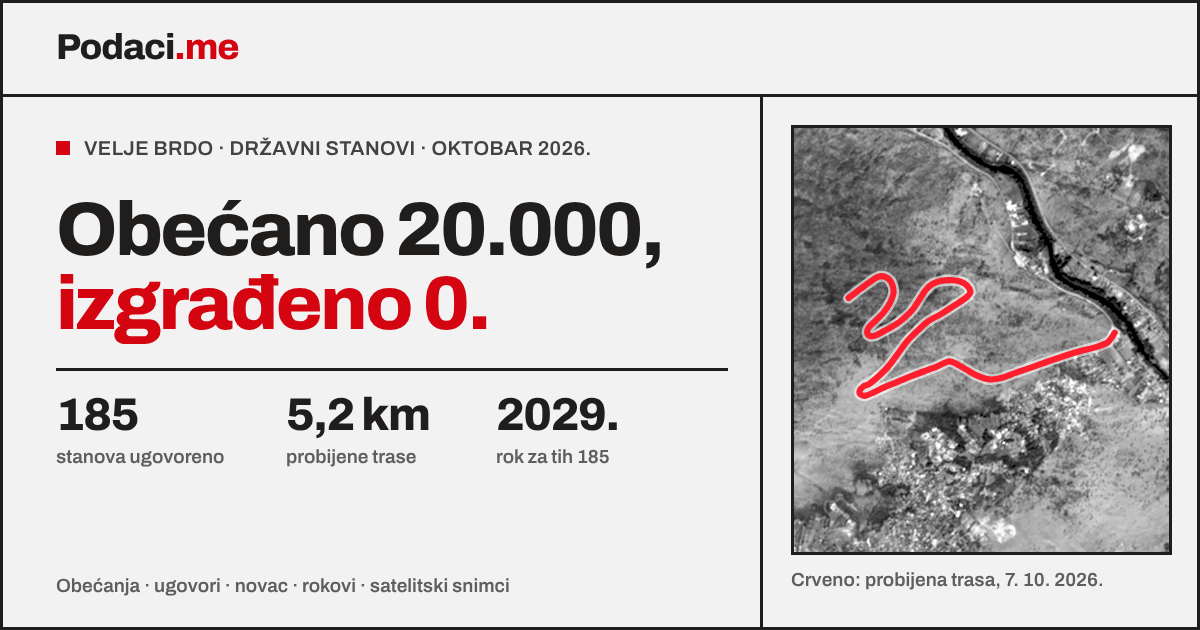
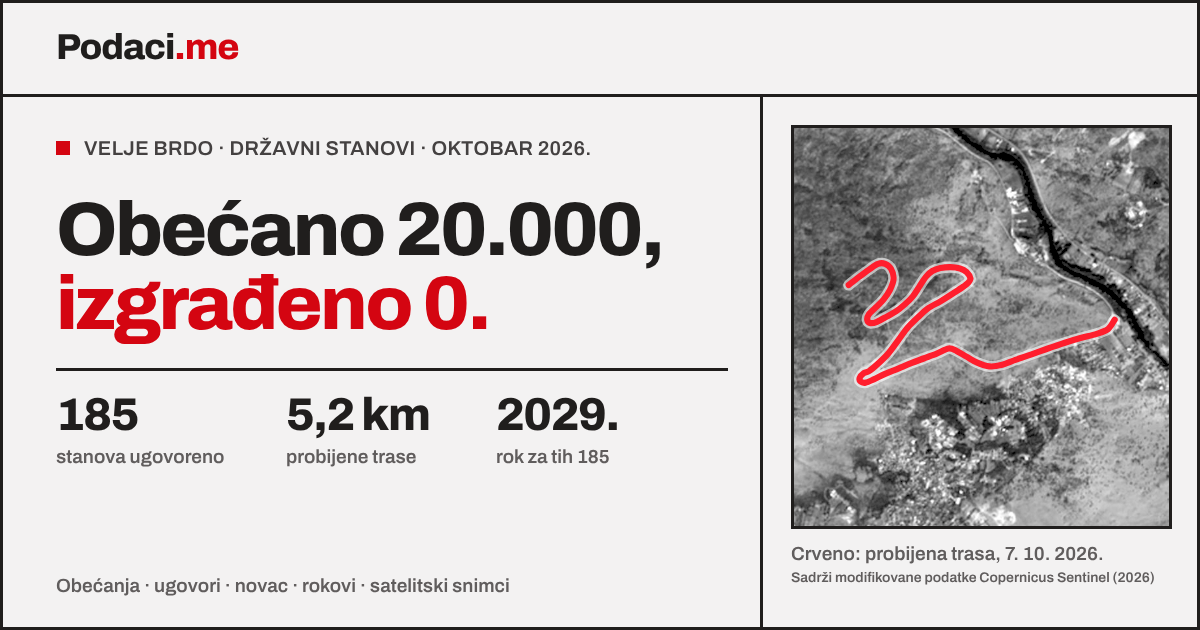
Velje brdo: ispravke posle uredničkog i tehničkog pregleda
- izvori uz tvrdnje iz samo jednog izvora; naše računice označene kao naše
- potpunija napomena o sukobu interesa; kritike izdavača označene u kalendaru i mreži
- odgovor ministarstva uz tvrdnju URA o namještenom konkursu; 'provjere' umjesto 'istrage'
- Copernicus napomena na kartici na početnoj i na slici za dijeljenje
- brojač dana kašnjenja vezan za datum stanja (20. 10. 2026.)
- skok iz indeksa ne završava ispod trake; nagovještaj za široke grafikone na telefonu
- početna: nelomljivi razmaci u brojkama, unutrašnji razmak kartica na telefonu

Claude-Session: https://claude.ai/code/session_01N93xnJPFmRj9Wvvp4fzWEd

Changed region(s): [[0.6475, 0.181, 0.9867, 0.9349]]

diff --git a/analize/velje-brdo/index.html b/analize/velje-brdo/index.html
@@ -95,7 +95,7 @@ button{font-family:inherit}
 .hero .copy{padding:72px 48px 56px 0;min-width:0}
 .eyebrow{display:flex;align-items:center;gap:10px;margin:0 0 26px;font-size:12px;font-weight:700;letter-spacing:.14em;text-transform:uppercase;color:var(--muted)}
 .eyebrow i{width:9px;height:9px;background:var(--accent);animation:blink 1.6s infinite;flex:none}
-h1{margin:0;font-size:clamp(40px,6vw,86px);font-weight:800;letter-spacing:-.035em;line-height:.96;text-wrap:balance}
+h1{margin:0;font-size:clamp(40px,6vw,78px);font-weight:800;letter-spacing:-.035em;line-height:.96;text-wrap:balance}
 h1 .ln{display:block}
 h1 .red{color:var(--accent);position:relative;isolation:isolate}
 h1 .num{font-variant-numeric:tabular-nums;display:inline-block;min-width:1ch}
@@ -204,6 +204,8 @@ main{display:flex;flex-direction:column;gap:28px;padding-block:32px 24px}
 .stage [data-tip]{cursor:crosshair}
 .scroll-x{overflow-x:auto}
 @media (max-width:640px){#price,#slip{min-width:640px}#money,#subsidy,#pace{min-width:460px}}
+.swipe{display:none;font-family:var(--f-mono);font-size:11px;color:var(--muted);margin:0 0 6px}
+@media (max-width:640px){.swipe{display:block}}
 
 /* tooltip */
 #tip{position:fixed;z-index:60;pointer-events:none;background:var(--tip-bg);color:var(--tip-ink);padding:8px 11px;font:600 12.5px/1.35 var(--f-ui);max-width:280px;opacity:0;transform:translateY(6px);transition:opacity .15s,transform .2s var(--ease-out)}
@@ -229,6 +231,7 @@ main{display:flex;flex-direction:column;gap:28px;padding-block:32px 24px}
 .story .st .bar i{display:block;height:100%;width:100%;background:var(--ink);transform:scaleX(0);transform-origin:left}
 .story .st.hit .bar i{background:var(--accent)}
 .story .st .lab{font-family:var(--f-mono);font-size:12px;font-weight:500;white-space:nowrap;overflow:hidden;text-overflow:ellipsis}
+@media (max-width:520px){.story .st .lab{white-space:normal;font-size:11px;line-height:1.25}}
 .story .st[aria-current="true"] .lab{color:var(--ink)}
 .story .st.hit[aria-current="true"] .lab{color:var(--accent)}
 .playbtn{font:700 13px/1 var(--f-ui);color:var(--on-accent);background:var(--accent);border:0;width:40px;height:40px;cursor:pointer;display:inline-grid;place-items:center;margin-top:-14px}
@@ -419,6 +422,7 @@ footer .sitefoot a{color:var(--muted)}
   @media (prefers-reduced-motion: no-preference){
     @keyframes plateIn{from{opacity:.35;transform:translateY(44px) scale(.985)}to{opacity:1;transform:none}}
     main > .plate{animation:plateIn linear both;animation-timeline:view();animation-range:entry 0% entry 55%}
+    main > .plate:target{animation:none}
   }
 }
 @media (prefers-reduced-motion: no-preference){
@@ -595,7 +599,7 @@ footer .sitefoot a{color:var(--muted)}
       <button class="replay" type="button" data-replay="profil"><svg viewBox="0 0 16 16" aria-hidden="true"><path d="M3 8a5 5 0 1 0 1.5-3.6M3 2.5v2.8h2.8" fill="none" stroke="currentColor" stroke-width="2"/></svg><span>Ponovi</span></button>
     </div>
     <div class="radar-wrap">
-      <div class="stage"><svg id="radar" viewBox="0 0 640 560" role="img" aria-label="Paukov dijagram ostvarenja: ugovori za prvu fazu 100%, probijena trasa 98%, a stanovi, rokovi, dokumenti, dozvole i preduslovi blizu nule."></svg></div>
+      <div class="stage"><svg id="radar" viewBox="0 0 640 560" role="img" aria-label="Paukov dijagram ostvarenja: ugovori za prvu fazu 100%, probijena trasa 97%, a stanovi, rokovi, dokumenti, dozvole i preduslovi blizu nule."></svg></div>
       <table class="rtab" id="rtab"><thead><tr><th>Osa</th><th style="text-align:right">Ostvareno</th></tr></thead><tbody></tbody></table>
     </div>
   </section>
@@ -604,7 +608,7 @@ footer .sitefoot a{color:var(--muted)}
     <div class="plate-head">
       <p class="kicker"><span class="no">04</span>Razmjera</p>
       <h2 id="h3r">Ugovoreno je 0,9% obećanog. Tempom prve faze, 20.000 stanova gradilo bi se 324 godine.</h2>
-      <p class="sub">Svaki kvadratić je 100 stanova. Proračun tempa je ilustracija razmjera, ne prognoza: 108 faza po 185 stanova i 36 mjeseci, jedna za drugom.</p>
+      <p class="sub">Svaki kvadratić je 100 stanova. Naš proračun tempa je ilustracija razmjera, ne prognoza: oko 108 faza po 185 stanova i 36 mjeseci, jedna za drugom.</p>
       <button class="replay" type="button" data-replay="razmjera"><svg viewBox="0 0 16 16" aria-hidden="true"><path d="M3 8a5 5 0 1 0 1.5-3.6M3 2.5v2.8h2.8" fill="none" stroke="currentColor" stroke-width="2"/></svg><span>Ponovi</span></button>
     </div>
     <div class="bigcount">
@@ -623,7 +627,7 @@ footer .sitefoot a{color:var(--muted)}
       <div class="panel">
         <h3>Koliko bi trajalo tempom prve faze</h3>
         <p class="h3sub">Prva faza: 185 stanova za 36 mjeseci. Radunović: „radiće i deset vlada poslije nas“.</p>
-        <div class="stage scroll-x"><svg id="pace" viewBox="0 0 560 250" role="img" aria-label="Tempom prve faze, 20.000 stanova bilo bi završeno oko 2350. godine."></svg></div>
+        <p class="swipe" aria-hidden="true">Grafikon je širi od ekrana, povucite ga ulijevo →</p><div class="stage scroll-x"><svg id="pace" viewBox="0 0 560 250" role="img" aria-label="Tempom prve faze, 20.000 stanova bilo bi završeno oko 2350. godine."></svg></div>
       </div>
     </div>
   </section>
@@ -635,7 +639,7 @@ footer .sitefoot a{color:var(--muted)}
       <p class="sub">Ministarka javnih radova Majda Adžović kaže da trošak iznosi 1.067 € i da razliku pokriva budžet. Računica od 2.808 € dijeli vrijednost ugovora neto površinom stanova (Investitor); <strong>ministarstvo je osporava</strong>.</p>
       <button class="replay" type="button" data-replay="cijena"><svg viewBox="0 0 16 16" aria-hidden="true"><path d="M3 8a5 5 0 1 0 1.5-3.6M3 2.5v2.8h2.8" fill="none" stroke="currentColor" stroke-width="2"/></svg><span>Ponovi</span></button>
     </div>
-    <div class="stage scroll-x"><svg id="price" viewBox="0 0 960 400" role="img" aria-label="Linijski grafikon: prosječna cijena novogradnje u Podgorici porasla je sa 1.761 € na 2.510 € po kvadratu; obećana cijena 1.000 €, računica iz ugovora 2.808 €."></svg></div>
+    <p class="swipe" aria-hidden="true">Grafikon je širi od ekrana, povucite ga ulijevo →</p><div class="stage scroll-x"><svg id="price" viewBox="0 0 960 400" role="img" aria-label="Linijski grafikon: prosječna cijena novogradnje u Podgorici porasla je sa 1.761 € na 2.510 € po kvadratu; obećana cijena 1.000 €, računica iz ugovora 2.808 €."></svg></div>
     <p class="cap">Linija: prosječna cijena prvih prodaja novih stanova u Podgorici (MONSTAT), €/m². Šuplje tačke: vrijednosti iz medijskih izvještaja o podacima MONSTAT-a. Ugovor: 40.049.774 € bez PDV-a za 14.260 m² neto stambene površine; uključuje glavni projekat, garaže i uređenje terena, a ne zemljište, priključke i PDV. Pređite mišem preko tačaka za vrijednosti.</p>
   </section>
 
@@ -643,22 +647,22 @@ footer .sitefoot a{color:var(--muted)}
     <div class="plate-head">
       <p class="kicker"><span class="no">06</span>Novac</p>
       <h2 id="h5n">Po cijeni iz ugovora, 20.000 stanova koštalo bi oko 4,3 mlrd. €, više od cijelog državnog budžeta za 2026.</h2>
-      <p class="sub">Projekcija množi cijenu jednog stana iz ugovora (216.485 € bez PDV-a) sa 20.000. Ne uključuje zemljište, infrastrukturu ni PDV. Vlada svoju procjenu ukupne vrijednosti nije objavila.</p>
+      <p class="sub">Naša projekcija množi cijenu jednog stana iz ugovora (216.485 € bez PDV-a) sa 20.000. Ne uključuje zemljište, infrastrukturu ni PDV. Vlada svoju procjenu ukupne vrijednosti nije objavila.</p>
       <button class="replay" type="button" data-replay="novac"><svg viewBox="0 0 16 16" aria-hidden="true"><path d="M3 8a5 5 0 1 0 1.5-3.6M3 2.5v2.8h2.8" fill="none" stroke="currentColor" stroke-width="2"/></svg><span>Ponovi</span></button>
     </div>
     <div class="two">
       <div class="panel">
         <h3>Projekcija naspram budžeta i stvarnog novca</h3>
         <p class="h3sub">Milioni eura, ista skala. Isprekidana linija: cijeli budžet za 2026.</p>
-        <div class="stage scroll-x"><svg id="money" viewBox="0 0 560 280" role="img" aria-label="Projekcija 4.330 miliona eura, državni budžet za 2026. 3.790 miliona, ugovoreno do sada 72,7 miliona, u budžetima 2025. i 2026. po 10 miliona."></svg></div>
+        <p class="swipe" aria-hidden="true">Grafikon je širi od ekrana, povucite ga ulijevo →</p><div class="stage scroll-x"><svg id="money" viewBox="0 0 560 280" role="img" aria-label="Projekcija 4.330 miliona eura, državni budžet za 2026. 3.790 miliona, ugovoreno do sada 72,7 miliona, u prijedlogu budžeta 2025. i u budžetu 2026. po 10 miliona."></svg></div>
       </div>
       <div class="panel">
         <h3>Koliko država dodaje po stanu</h3>
-        <p class="h3sub">Prosječan stan u prvoj fazi ima 77 m² i prodaje se za oko 77.000 €.</p>
-        <div class="stage scroll-x"><svg id="subsidy" viewBox="0 0 560 280" role="img" aria-label="Po ministarki država dodaje oko 5.200 eura po stanu; po računici iz ugovora oko 139.400 eura."></svg></div>
+        <p class="h3sub">Prosječan stan u prvoj fazi ima 77 m²; po obećanih 1.000 €/m² prodavao bi se za oko 77.000 €.</p>
+        <p class="swipe" aria-hidden="true">Grafikon je širi od ekrana, povucite ga ulijevo →</p><div class="stage scroll-x"><svg id="subsidy" viewBox="0 0 560 280" role="img" aria-label="Po ministarki država dodaje oko 5.200 eura po stanu; po računici iz ugovora oko 139.400 eura."></svg></div>
       </div>
     </div>
-    <p class="cap">Izvori: ugovor sa konzorcijumom Fidija i Ing Invest (Investitor, Sjever CG); budžet 2026. od 3,79 mlrd. € (Vlada); 10 mil. € u budžetima 2025. i 2026. (Press, Vodič kroz budžet Skupštine); izjava ministarke Adžović (Analitika). Proračuni po stanu su naši.</p>
+    <p class="cap">Izvori: ugovor sa konzorcijumom Fidija i Ing Invest (Investitor, Sjever CG); budžet 2026. od 3,79 mlrd. € (Vlada); 10 mil. € u prijedlogu budžeta 2025. i u budžetu 2026. (Press, Vodič kroz budžet Skupštine); izjava ministarke Adžović (Analitika). Projekcija i proračuni po stanu su naši.</p>
   </section>
 
   <section class="plate" id="rokovi" data-anim="rokovi" aria-labelledby="h6r">
@@ -668,18 +672,18 @@ footer .sitefoot a{color:var(--muted)}
       <p class="sub">Od obećanog useljenja sredinom 2026. prošlo je <strong id="lateDays">112</strong> dana.</p>
       <button class="replay" type="button" data-replay="rokovi"><svg viewBox="0 0 16 16" aria-hidden="true"><path d="M3 8a5 5 0 1 0 1.5-3.6M3 2.5v2.8h2.8" fill="none" stroke="currentColor" stroke-width="2"/></svg><span>Ponovi</span></button>
     </div>
-    <div class="stage scroll-x"><svg id="slip" viewBox="0 0 960 380" role="img" aria-label="Obećani rok za prve stanove: sredina 2026, pa kraj 2026, pa kraj 2027; rok iz ugovora za 185 stanova je 21. 8. 2029."></svg></div>
+    <p class="swipe" aria-hidden="true">Grafikon je širi od ekrana, povucite ga ulijevo →</p><div class="stage scroll-x"><svg id="slip" viewBox="0 0 960 380" role="img" aria-label="Obećani rok za prve stanove: sredina 2026, pa kraj 2026, pa kraj 2027; rok iz ugovora za 185 stanova je 21. 8. 2029."></svg></div>
     <p class="cap">Vodoravno: kada je rok izgovoren. Uspravno: koji je rok obećan. Šuplji krug je rok koji je već prošao. Izvori: CdM (21. 9. 2024), Vlada (27. 12. 2024), RTPV (22. 3. 2026), ugovor (21. 8. 2026).</p>
   </section>
 
   <section class="plate" id="kalendar" data-anim="kalendar" aria-labelledby="h8k">
     <div class="plate-head">
       <p class="kicker"><span class="no">08</span>Kalendar projekta</p>
-      <h2 id="h8k">26 mjeseci, 55 događaja: ugovori, kritike i istrage. Red za gradnju stanova je prazan.</h2>
+      <h2 id="h8k">26 mjeseci, 55 događaja: ugovori, kritike i provjere. Red za gradnju stanova je prazan.</h2>
       <p class="sub">Toplotna mapa broji događaje iz naše hronologije po mjesecu i temi. Tamnija ćelija znači više događaja. Pređite mišem preko ćelije za spisak.</p>
       <button class="replay" type="button" data-replay="kalendar"><svg viewBox="0 0 16 16" aria-hidden="true"><path d="M3 8a5 5 0 1 0 1.5-3.6M3 2.5v2.8h2.8" fill="none" stroke="currentColor" stroke-width="2"/></svg><span>Ponovi</span></button>
     </div>
-    <div class="stage scroll-x"><svg id="cal" viewBox="0 0 1000 400" role="img" aria-label="Toplotna mapa događaja po mjesecima od septembra 2024. do oktobra 2026. i po temama; red Gradnja stanova nema nijedan događaj."></svg></div>
+    <p class="swipe" aria-hidden="true">Grafikon je širi od ekrana, povucite ga ulijevo →</p><div class="stage scroll-x"><svg id="cal" viewBox="0 0 1000 400" role="img" aria-label="Toplotna mapa događaja po mjesecima od septembra 2024. do oktobra 2026. i po temama; red Gradnja stanova nema nijedan događaj."></svg></div>
     <div class="cal-legend"><span><i style="background:#f1efef"></i>0</span><span><i style="background:#f7c4c7"></i>1</span><span><i style="background:#ee7d86"></i>2</span><span><i style="background:#d40511"></i>3</span><span><i style="background:#7d020a"></i>4 i više događaja</span></div>
     <p class="cap">Broj događaja iz hronologije ovog istraživanja, ne mjera ukupne medijske pažnje. Gdje tačan datum nije potvrđen, mjesec je približan.</p>
   </section>
@@ -715,7 +719,7 @@ footer .sitefoot a{color:var(--muted)}
       <button type="button" data-type="kritika" aria-pressed="true"><span class="ln" style="border-color:#c27c00;border-top-style:dotted"></span>Kritika i mediji</button>
       <span style="display:inline-flex;align-items:center;gap:12px;font-size:12.5px;color:var(--ink-2);margin-left:6px"><span><span class="dot" style="background:var(--ink)"></span> vlast</span><span><span class="dot" style="background:var(--accent)"></span> izvođači</span><span><span class="dot" style="background:#2a78d6"></span> institucije</span><span><span class="dot" style="background:#c27c00"></span> kritičari, mediji</span></span>
     </div>
-    <div class="net-wrap"><svg id="net" viewBox="0 0 1000 660" role="img" aria-label="Mreža aktera projekta Velje brdo; spisak veza nalazi se ispod mreže."></svg><span class="net-hint">povucite čvor</span></div>
+    <p class="swipe" aria-hidden="true">Grafikon je širi od ekrana, povucite ga ulijevo →</p><div class="net-wrap"><svg id="net" viewBox="0 0 1000 660" role="img" aria-label="Mreža aktera projekta Velje brdo; spisak veza nalazi se ispod mreže."></svg><span class="net-hint">povucite čvor</span></div>
     <details class="net-list"><summary>Spisak svih veza</summary><ul id="netList"></ul></details>
   </section>
 
@@ -737,7 +741,7 @@ footer .sitefoot a{color:var(--muted)}
       <figure class="qt"><span class="side crit">Struka</span><blockquote>„Velje brdo se može samo u snovima zamisliti.“</blockquote><cite>Radenko Pejović, penzionisani profesor Građevinskog fakulteta, Monitor, 8. 5. 2026.</cite></figure>
       <figure class="qt"><span class="side crit">Opozicija</span><blockquote>„Rokovi za Velje brdo ponovo se pomjeraju.“</blockquote><cite>Ana Novaković Đurović, URA, 19. 10. 2026.</cite></figure>
       <figure class="qt"><span class="side crit">Civilni sektor</span><blockquote>„Nema zakona niti odluke Vlade koji bi formalno garantovali realizaciju prema prvobitnim najavama.“</blockquote><cite>Udruženje podstanara Crne Gore</cite></figure>
-      <figure class="qt"><span class="side crit">Civilni sektor</span><blockquote>„Velje Brdo je obmana – 3,5 milijardi za iluziju bez pokrića.“</blockquote><cite>Sonja Dragović, NVO KANA, april 2026. Ministarstvo kaže da je konkurs sproveden zakonito.</cite></figure>
+      <figure class="qt"><span class="side crit">Civilni sektor</span><blockquote>„Velje Brdo je obmana – 3,5 milijardi za iluziju bez pokrića.“</blockquote><cite>Sonja Dragović, NVO KANA, april 2026. KANA navodi i sukob interesa u žiriju konkursa; ministarstvo kaže da je konkurs sproveden zakonito i bez sukoba interesa.</cite></figure>
     </div>
   </section>
 
@@ -765,8 +769,8 @@ footer .sitefoot a{color:var(--muted)}
     <div class="plate-head">
       <p class="kicker"><span class="no">13</span>Izvori</p>
       <h2 id="h10i">Dokumenti i tekstovi na kojima se stranica zasniva</h2>
-      <p class="sub">Glavni izvori su navedeni ispod. Tvrdnje koje potiču iz samo jednog izvora navedene su uz ime tog izvora. Naše računice, kao projekcija troška i tempo gradnje, označene su kao naše.</p>
-      <p class="sub disclose">Napomena: Podaci.me izdaje Fidelity Consulting, koji je o ovom projektu i ranije javno objavljivao kritike. Te kritike su u analizi prikazane kao i ostali izvori, u kalendaru i u mreži aktera.</p>
+      <p class="sub">Glavni izvori su navedeni ispod. Ključne tvrdnje koje potiču iz samo jednog izvora navedene su uz ime tog izvora. Naše računice, kao projekcija troška i tempo gradnje, označene su kao naše.</p>
+      <p class="sub disclose">Napomena o sukobu interesa: Podaci.me izdaje Fidelity Consulting d.o.o. Fidelity Consulting je od 2024. javno kritikovao ovaj projekat: tvrdio je da obećane rate ne odgovaraju cijeni od 1.000 €, da su premijer Spajić i ministar Radunović obmanuli građane i da je procijenjena vrijednost tendera za pripremne radove na bulevaru previsoka. U kalendaru i u mreži aktera te kritike su označene kao kritike izdavača.</p>
     </div>
     <ul class="srcs">
       <li><a href="https://www.cdm.me/ekonomija/spajic-na-predstavljanju-projekta-velje-brdo-prvi-stanovi-sredinom-2026-godine-kvadrat-ce-biti-1-000-eura-sa-kamatom-12-odsto/">CdM: predstavljanje projekta, 21. 9. 2024.</a></li>
@@ -865,7 +869,7 @@ footer .sitefoot a{color:var(--muted)}
   }
   var ROUTE_D = smooth(ROUTE);
   var FRAMES = [
-    { d: '2. 10. 2024.', note: 'Deset dana poslije predstavljanja projekta. Nema puteva.', route: false },
+    { d: '2. 10. 2024.', note: 'Jedanaest dana poslije predstavljanja projekta. Nema puteva.', route: false },
     { d: '14. 3. 2026.', note: 'Jedanaest dana prije otvaranja gradilišta bulevara. Nema novih radova.', route: false },
     { d: '29. 7. 2026.', note: 'Četiri mjeseca poslije početka pripremnih radova: trasa je probijena.', route: true },
     { d: '7. 10. 2026.', note: 'Posljednji snimak bez oblaka: ista trasa, nema novih iskopa.', route: true }
@@ -873,7 +877,7 @@ footer .sitefoot a{color:var(--muted)}
   var PROMISES = [
     { q: 'Prvi stanovi sredinom 2026.', who: 'Milojko Spajić, 21. 9. 2024.', s: 'no', st: 'Nije ispunjeno', fact: 'Rok je prošao. Ugovor za prvih <b>185 stanova</b> ističe <b>21. 8. 2029.</b>' },
     { q: 'Kvadrat 1.000 €', who: 'Milojko Spajić, 21. 9. 2024.', s: 'dispute', st: 'Sporno', fact: 'Po računici iz ugovora gradnja košta najmanje <b>2.808 €</b> po m²; ministarka Adžović kaže <b>1.067 €</b> i da razliku plaća budžet.' },
-    { q: 'Kamata 1,2%, 30 godina, bez učešća', who: 'Milojko Spajić, 21. 9. 2024.', s: 'wait', st: 'Bez potvrde', fact: 'Banka ili fond koji bi dao takvu kamatu <b>nije imenovan</b>. Obećane rate od 290 i 390 € ne odgovaraju cijeni od 1.000 €.' },
+    { q: 'Kamata 1,2%, 30 godina, bez učešća', who: 'Milojko Spajić, 21. 9. 2024.', s: 'wait', st: 'Bez potvrde', fact: 'Banka ili fond koji bi dao takvu kamatu <b>nije imenovan</b>. Naša računica: uz 1,2% na 30 godina stan od 60 m² po 1.000 €/m² daje ratu od oko <b>199 €</b>, a od 100 m² oko <b>331 €</b>. Obećane rate od 290 i 390 € odgovaraju cijeni od oko 1.460 i 1.180 € po m². Isto je 2024. iznio Fidelity Consulting, izdavač Podaci.me.' },
     { q: '20.000 stanova', who: 'Koordinaciono tijelo Vlade, decembar 2024.', s: 'dispute', st: 'Bez plana', fact: 'Ugovoreno je <b>185</b>, odnosno 0,9%. Plan finansiranja za ostatak nije objavljen.' },
     { q: 'PUP usvojen do 31. 12. 2024.', who: 'Vlada, 14. 12. 2024.', s: 'late', st: 'Kasnilo 227 dana', fact: 'Plan je usvojen <b>15. 8. 2025.</b> na telefonskoj sjednici.' },
     { q: 'Pravilnik o dodjeli u prvoj polovini 2026.', who: 'Ministarstvo, 2026.', s: 'no', st: 'Nije ispunjeno', fact: 'Postoji samo <b>nacrt</b>; usvojen pravilnik nismo našli.' },
@@ -899,7 +903,7 @@ footer .sitefoot a{color:var(--muted)}
     { k: 'Projekcija: 20.000 stanova po cijeni iz ugovora', v: projection / 1e6, red: true },
     { k: 'Cijeli državni budžet za 2026.', v: BUDGET_2026 },
     { k: 'Ugovoreno do sada (bulevar, Blok A1, ostalo)', v: 72.65 },
-    { k: 'U budžetima 2025. i 2026. (po 10 mil. €)', v: 20 }
+    { k: 'U prijedlogu budžeta 2025. i u budžetu 2026. (po 10 mil. €)', v: 20 }
   ];
   var SUBSIDY = [
     { k: 'Po ministarki (1.067 €/m²)', v: (MINISTRY_PRICE - PROMISE_PRICE) * avgArea },
@@ -1238,7 +1242,7 @@ footer .sitefoot a{color:var(--muted)}
       el('text', { x: SX(r.said) + r.dx, y: SY(r.due) + r.dy + 15, 'text-anchor': r.a }, g, r.who);
     });
   })();
-  var late = Math.max(0, Math.floor((Date.now() - tms('2026-06-30')) / 864e5));
+  var late = Math.max(0, Math.floor((tms(TODAY) - tms('2026-06-30')) / 864e5));
   var lateNode = $('lateDays'); lateNode.textContent = nf(late);
   function playSlip() {
     var band = $('pastBand'), h = +band.getAttribute('height');
@@ -1311,7 +1315,7 @@ footer .sitefoot a{color:var(--muted)}
     { k: 'Rokovi ispoštovani', s: ['Rokovi', 'ispoštovani'], v: 0, f: '0 / 3', d: 'prvi stanovi sredinom 2026, PUP do 31. 12. 2024, pravilnik do sredine 2026.' },
     { k: 'Ključni dokumenti objavljeni', s: ['Dokumenti', 'objavljeni'], v: 0, f: '0 / 5', d: 'studija izvodljivosti, finansijska analiza, izvještaji Koordinacionog tijela, finansijski model, pravilnik' },
     { k: 'Dozvole izdate', s: ['Dozvole izdate'], v: 0, f: '0 / 2', d: 'građevinske dozvole za Blok A1 i bulevar' },
-    { k: 'Preduslovi riješeni', s: ['Preduslovi', 'riješeni'], v: 0, f: '0 / 4', d: 'priključak na vodu, dalekovodi, procjena uticaja za Blok A1, istraživanje Mareze (rok septembar 2027.)' },
+    { k: 'Preduslovi riješeni', s: ['Preduslovi', 'riješeni'], v: 0, f: '0 / 4', d: 'priključak na vodu, dalekovodi, procjena uticaja za Blok A1, istraživanje Mareze (rok septembar 2027, prema Vijestima)' },
     { k: 'Ugovori za prvu fazu', s: ['Ugovori za', 'prvu fazu'], v: 1, f: '2 / 2', d: 'bulevar (Eurozox) i Blok A1 (Fidija i Ing Invest)' },
     { k: 'Probijena trasa bulevara', s: ['Trasa', 'bulevara'], v: Math.min(1, routeKm / 5.3), f: nf(routeKm, 1) + ' / 5,3 km', d: 'prema satelitskom snimku od 7. 10. 2026.' }
   ];
@@ -1372,13 +1376,13 @@ footer .sitefoot a{color:var(--muted)}
   }
 
   // ---------- 08 calendar heat map ----------
-  var THEMES = ['Odluke, najave i rokovi', 'Plan i zemljište', 'Konkurs', 'Tenderi i ugovori', 'Voda i životna sredina', 'Budžet i novac', 'Kritike, kontrola i istrage', 'Gradnja stanova'];
+  var THEMES = ['Odluke, najave i rokovi', 'Plan i zemljište', 'Konkurs', 'Tenderi i ugovori', 'Voda i životna sredina', 'Budžet i novac', 'Kritike i kontrola', 'Gradnja stanova'];
   var EVENTS = [
-    ['2024-09', 0, 'Predstavljanje projekta: 1.000 €/m², prvi stanovi sredinom 2026.'], ['2024-09', 5, 'Vijesti: naselje bi koštalo najmanje 3,5 mlrd. € (anonimni izvor)'], ['2024-09', 6, 'URA (Radovanić): „Velja prevara“'], ['2024-09', 6, 'Fidelity Consulting: obećane rate ne odgovaraju cijeni od 1.000 €'],
+    ['2024-09', 0, 'Predstavljanje projekta: 1.000 €/m², prvi stanovi sredinom 2026.'], ['2024-09', 5, 'Vijesti: naselje bi koštalo najmanje 3,5 mlrd. € (anonimni izvor)'], ['2024-09', 6, 'URA (Radovanić): „Velja prevara“'], ['2024-09', 6, 'Fidelity Consulting (izdavač Podaci.me): obećane rate ne odgovaraju cijeni od 1.000 €'],
     ['2024-10', 0, 'Vlada formira Koordinaciono tijelo'],
-    ['2024-11', 0, 'Vlada usvaja Informaciju o projektu'], ['2024-11', 1, 'Vlada utvrđuje nacrt izmjena PUP-a'], ['2024-11', 5, 'Prijedlog budžeta 2025: 10 mil. €'], ['2024-11', 6, 'Huter (DPS) u Skupštini: „velja prevara“'],
-    ['2024-12', 0, 'Koordinaciono tijelo traži 20.000 stanova'], ['2024-12', 0, 'Otvoren portal za prijave: 3.887 za tri dana'], ['2024-12', 1, 'Javna rasprava o PUP-u odložena, pa prekinuta'], ['2024-12', 4, 'Ministarstvo ekologije: uticaj na Marezu nedovoljno istražen'], ['2024-12', 6, 'Rakčević traži povlačenje PUP-a'], ['2024-12', 6, 'Strukovna komora arhitekata: zaustaviti izmjene PUP-a'],
-    ['2025-01', 1, 'PUP nije usvojen u roku; više od 300 primjedbi'],
+    ['2024-11', 0, 'Vlada usvaja Informaciju o projektu'], ['2024-11', 1, 'Vlada utvrđuje nacrt izmjena PUP-a'], ['2024-11', 5, 'Prijedlog budžeta 2025: 10 mil. €'], ['2024-11', 6, 'Huter (DPS) u Skupštini: „velja prevara“ (Dan)'],
+    ['2024-12', 0, 'Koordinaciono tijelo traži 20.000 stanova'], ['2024-12', 0, 'Otvoren portal za prijave: 3.887 za tri dana'], ['2024-12', 1, 'Javna rasprava o PUP-u odložena, pa prekinuta'], ['2024-12', 4, 'Ministarstvo ekologije: uticaj na Marezu nedovoljno istražen'], ['2024-12', 6, 'Rakčević traži povlačenje PUP-a (Dan)'], ['2024-12', 6, 'Strukovna komora arhitekata: zaustaviti izmjene PUP-a'],
+    ['2025-01', 1, 'PUP nije usvojen u roku; više od 300 primjedbi (24kroz7)'],
     ['2025-05', 5, 'Plan nabavki MJR: više od 40 mil. € za Velje brdo'], ['2025-05', 6, 'MANS: članovima Koordinacionog tijela 26.836 € naknada'], ['2025-05', 6, 'Đuričković: „Koordinacioni tim pojeo 27.000 eura“'],
     ['2025-07', 3, 'Projekat bulevara: Optimusproject i Route project, 74.536 €'],
     ['2025-08', 1, 'Vlada usvaja izmjene PUP-a na telefonskoj sjednici'], ['2025-08', 6, 'KANA/Monitor: jedan planer uzdržan u Savjetu za reviziju'],
@@ -1386,14 +1390,14 @@ footer .sitefoot a{color:var(--muted)}
     ['2025-11', 4, 'Vodovod odbija uslove za priključenje'],
     ['2025-12', 2, 'Raspisan međunarodni konkurs za Blok A1'], ['2025-12', 5, 'Usvojen budžet 2026; u prijedlogu do 120 mil. € zaduženja'],
     ['2026-02', 4, 'Ministarstvo: dalekovodi se ne izmještaju'], ['2026-02', 2, 'Izmijenjen sastav žirija konkursa'],
-    ['2026-03', 0, 'Radunović: „radiće i deset vlada poslije nas“'], ['2026-03', 3, 'Otvoreno gradilište bulevara; pripremni radovi 1,47 mil. €'], ['2026-03', 6, 'URA: konkurs „namješten“'], ['2026-03', 6, 'Podstanari traže finansijski model i pravilnik'],
-    ['2026-04', 2, 'Rezultati konkursa: prva nagrada timu iz Srbije'], ['2026-04', 6, 'KANA navodi sukob interesa u žiriju'], ['2026-04', 4, 'Geoprojekt: uticaj na Marezu ne može se isključiti'], ['2026-04', 6, 'Urošević i Huter u Skupštini'],
+    ['2026-03', 0, 'Radunović: „radiće i deset vlada poslije nas“'], ['2026-03', 3, 'Otvoreno gradilište bulevara; pripremni radovi 1,47 mil. €'], ['2026-03', 6, 'URA: konkurs „namješten“; ministarstvo negira'], ['2026-03', 6, 'Podstanari traže finansijski model i pravilnik'],
+    ['2026-04', 2, 'Rezultati konkursa: prva nagrada timu iz Srbije'], ['2026-04', 6, 'KANA navodi sukob interesa u žiriju; ministarstvo negira'], ['2026-04', 4, 'Geoprojekt: uticaj na Marezu ne može se isključiti'], ['2026-04', 6, 'Urošević i Huter u Skupštini (Antena M)'],
     ['2026-05', 6, 'Pejović: „samo u snovima“'],
-    ['2026-06', 3, 'Tender za bulevar, 33 mil. €'], ['2026-06', 3, 'Tender za Blok A1, 40,1 mil. €'], ['2026-06', 4, 'Adžović: zona zaštite „ne znači zabranu gradnje“'], ['2026-06', 6, 'Podstanari najavljuju inicijativu za zaustavljanje'],
+    ['2026-06', 3, 'Tender za bulevar, 33 mil. €'], ['2026-06', 3, 'Tender za Blok A1, 40,1 mil. €'], ['2026-06', 4, 'Adžović: zona zaštite „ne znači zabranu gradnje“'], ['2026-06', 6, 'Podstanari najavljuju inicijativu za zaustavljanje (Standard)'],
     ['2026-07', 3, 'Četiri ponude za bulevar'], ['2026-07', 6, 'AZLP: ministarstvo prekršilo rok (prema podstanarima)'],
     ['2026-08', 3, 'Izabrani izvođači: Eurozox i Fidija/Ing Invest'], ['2026-08', 3, 'Potpisan ugovor za Blok A1, 40,05 mil. €'], ['2026-08', 3, 'Potpisan ugovor za bulevar, 30,86 mil. €'], ['2026-08', 5, 'Adžović: kvadrat košta 1.067 €; Investitor: 2.808 €'], ['2026-08', 6, 'Skupština Glavnog grada formira komisiju za praćenje'],
-    ['2026-09', 3, 'Revizija tehničke dokumentacije: Civil Engineer'], ['2026-09', 4, 'Procjena uticaja za Blok A1 obavezna'], ['2026-09', 6, 'URA: „matematika se ne slaže“'],
-    ['2026-10', 4, 'Dabetić: bez procjene uticaja nema gradnje'], ['2026-10', 6, 'SPO saslušao Radunovića i Đurišić (prema Vijestima)'], ['2026-10', 5, 'Predlog preusmjeravanja 4,83 mil. €'], ['2026-10', 0, 'Gradnja stanova ne počinje ni u decembru (Dan, URA)']
+    ['2026-09', 3, 'Revizija tehničke dokumentacije: Civil Engineer (Gradnja.me)'], ['2026-09', 4, 'Procjena uticaja za Blok A1 obavezna'], ['2026-09', 6, 'URA: „matematika se ne slaže“'],
+    ['2026-10', 4, 'Dabetić: bez procjene uticaja nema gradnje'], ['2026-10', 6, 'SPO saslušao Radunovića i Đurišić (prema Vijestima)'], ['2026-10', 5, 'Prijedlog preusmjeravanja 4,83 mil. €'], ['2026-10', 0, 'Gradnja stanova ne počinje ni u decembru (Dan, URA)']
   ];
   var MONTHS = [];
   for (var yy = 2024, mm = 9; yy < 2026 || (yy === 2026 && mm <= 10); mm++) { if (mm > 12) { mm = 1; yy++; } MONTHS.push(yy + '-' + (mm < 10 ? '0' : '') + mm); if (yy === 2026 && mm === 10) break; }
@@ -1462,8 +1466,8 @@ footer .sitefoot a{color:var(--muted)}
     { id: 'Eurozox', l: 'Eurozox', g: 'izvodjaci', i: 'Bulevar: 30,86 mil. € bez PDV-a' },
     { id: 'Konstruktor', l: 'Konstruktor Group', g: 'izvodjaci', i: 'Pripremni radovi: 1.470.471 €' },
     { id: 'Optimus', l: 'Optimusproject i Route', g: 'izvodjaci', i: 'Projekat bulevara: 74.536 €' },
-    { id: 'Civil', l: 'Civil Engineer', g: 'izvodjaci', i: 'Revizija dokumentacije: oko 198.880 €' },
-    { id: 'Geoprojekt', l: 'Geoprojekt', g: 'izvodjaci', i: 'Prethodna studija: veza sa Marezom ne može se isključiti; detaljno istraživanje do septembra 2027.' },
+    { id: 'Civil', l: 'Civil Engineer', g: 'izvodjaci', i: 'Revizija dokumentacije: oko 198.880 € (Gradnja.me)' },
+    { id: 'Geoprojekt', l: 'Geoprojekt', g: 'izvodjaci', i: 'Prethodna studija: veza sa Marezom ne može se isključiti; detaljno istraživanje do septembra 2027. (prema Vijestima)' },
     { id: 'Tim', l: 'Milanović i Šišović', g: 'izvodjaci', i: 'Prva nagrada na konkursu: 100.000 €' },
     { id: 'SPO', l: 'SPO (policija)', g: 'kontrola', i: 'Saslušanje po anonimnoj prijavi, objavljeno 14. 10. 2026.' },
     { id: 'AZLP', l: 'AZLP', g: 'kontrola', i: 'Rješenje 27. 7. 2026: prekršen rok (prema podstanarima)' },
@@ -1472,13 +1476,13 @@ footer .sitefoot a{color:var(--muted)}
     { id: 'CGES', l: 'CGES', g: 'kontrola', i: 'Dalekovodi 400 kV preko lokacije' },
     { id: 'MEko', l: 'Min. ekologije (Dabetić)', g: 'kontrola', i: '„Bilo kakve izgradnje neće i ne može biti“ bez procjene uticaja' },
     { id: 'URA', l: 'URA', g: 'kritika', i: 'Opozicija: rokovi, cijena, konkurs' },
-    { id: 'DPS', l: 'DPS (Huter)', g: 'kritika', i: '„Velje brdo je velja prevara“' },
+    { id: 'DPS', l: 'DPS (Huter)', g: 'kritika', i: '„Velje brdo je velja prevara“ (Skupština, novembar 2024; Dan)' },
     { id: 'KANA', l: 'NVO KANA', g: 'kritika', i: 'Navodi sukob interesa u žiriju; ministarstvo negira' },
     { id: 'Podstanari', l: 'Udruženje podstanara', g: 'kritika', i: 'Zahtjev za informacije; inicijativa za zaustavljanje' },
     { id: 'MANS', l: 'MANS', g: 'kritika', i: 'Pribavio podatke o naknadama Koordinacionog tijela' },
     { id: 'Investitor', l: 'Investitor', g: 'kritika', i: 'Računica 2.808 € po m² iz ugovora' },
     { id: 'Vijesti', l: 'Vijesti', g: 'kritika', i: 'Objavile saslušanje u SPO-u i procjenu od 3,5 mlrd. €' },
-    { id: 'Fidelity', l: 'Fidelity Consulting', g: 'kritika', i: 'Kritika rata i tendera za pripremne radove' }
+    { id: 'Fidelity', l: 'Fidelity Consulting', g: 'kritika', i: 'Izdavač Podaci.me; kritikovao rate i tender za pripremne radove' }
   ];
   var LINKS = [
     ['Spajic', 'Vlada', 'nadleznost', 'premijer'], ['Vlada', 'VB', 'nadleznost', 'nosilac projekta'], ['Vlada', 'KT', 'nadleznost', 'formirala, okt. 2024.'],
@@ -1492,7 +1496,7 @@ footer .sitefoot a{color:var(--muted)}
     ['MEko', 'VB', 'kontrola', 'bez procjene uticaja nema gradnje'], ['EPA', 'VB', 'kontrola', 'procjena uticaja obavezna'], ['Vodovod', 'VB', 'kontrola', 'odbio uslove'],
     ['CGES', 'VB', 'kontrola', 'dalekovodi'], ['SPO', 'Radunovic', 'kontrola', 'saslušanje'], ['SPO', 'Djurisic', 'kontrola', 'saslušanje'], ['AZLP', 'MPUDI', 'kontrola', 'prekršen rok'],
     ['Podstanari', 'MPUDI', 'kritika', 'zahtjev za informacije'], ['Podstanari', 'VB', 'kritika', 'inicijativa za zaustavljanje'], ['Podstanari', 'AZLP', 'kritika', 'žalba'],
-    ['KANA', 'Konkurs', 'kritika', 'navodi sukob interesa'], ['URA', 'Konkurs', 'kritika', '„namješten“'], ['URA', 'VB', 'kritika', 'rokovi i cijena'],
+    ['KANA', 'Konkurs', 'kritika', 'navodi sukob interesa'], ['URA', 'Konkurs', 'kritika', '„namješten“ (ministarstvo negira)'], ['URA', 'VB', 'kritika', 'rokovi i cijena'],
     ['DPS', 'VB', 'kritika', '„velja prevara“'], ['MANS', 'KT', 'kritika', 'podaci o naknadama'], ['Investitor', 'MJR', 'kritika', 'računica 2.808 €/m²'],
     ['Vijesti', 'SPO', 'kritika', 'objavile saslušanje'], ['Fidelity', 'MJR', 'kritika', 'tender za pripremne radove']
   ];

diff --git a/index.html b/index.html
@@ -144,12 +144,12 @@
   .vb-halo{fill:none;stroke:#fff;stroke-width:13;stroke-linecap:round;stroke-linejoin:round;opacity:.55}
   .vb-tag{position:absolute;left:12px;top:12px;font-size:12px;font-weight:700;letter-spacing:.04em;color:#fff;background:rgba(20,18,17,.78);padding:6px 9px}
   @media (prefers-reduced-motion:no-preference){
-    [data-rv]:not([data-in]) .vb-route{stroke-dashoffset:1}
-    [data-rv][data-in] .vb-route{stroke-dashoffset:1;animation:draw 2.4s cubic-bezier(.65,0,.35,1) .5s forwards}
+    .vb-sat:not([data-in]) .vb-route{stroke-dashoffset:1}
+    .vb-sat[data-in] .vb-route{stroke-dashoffset:1;animation:draw 2.4s cubic-bezier(.65,0,.35,1) .5s forwards}
   }
   @media (max-width:900px){
     #analize > div,#oblasti > div,#metod > div{padding:56px 20px 64px !important}
-    [data-g="feature"] > *{padding:28px 0 !important;border-left:0 !important}
+    [data-g="feature"] > *{padding:24px 20px !important;border-left:0 !important}
     [data-g="feature"] > *:last-child{border-top:2px solid #201e1d}
   }
 </style>
@@ -260,18 +260,18 @@
             <div style="background:#f3f2f2;padding:14px 12px 0 0"><div style="font-size:26px;font-weight:800;letter-spacing:-.03em;line-height:1">20.000</div><div style="font-size:12px;font-weight:600;color:#605d5d;margin-top:4px">obećanih stanova</div></div>
             <div style="background:#f3f2f2;padding:14px 12px 0"><div style="font-size:26px;font-weight:800;letter-spacing:-.03em;line-height:1">185</div><div style="font-size:12px;font-weight:600;color:#605d5d;margin-top:4px">ugovoreno</div></div>
             <div style="background:#f3f2f2;padding:14px 12px 0"><div style="font-size:26px;font-weight:800;letter-spacing:-.03em;line-height:1;color:#d40511">0</div><div style="font-size:12px;font-weight:600;color:#605d5d;margin-top:4px">izgrađeno</div></div>
-            <div style="background:#f3f2f2;padding:14px 0 0 12px"><div style="font-size:26px;font-weight:800;letter-spacing:-.03em;line-height:1">5,2 km</div><div style="font-size:12px;font-weight:600;color:#605d5d;margin-top:4px">probijene trase</div></div>
+            <div style="background:#f3f2f2;padding:14px 0 0 12px"><div style="font-size:26px;font-weight:800;letter-spacing:-.03em;line-height:1">5,2&nbsp;km</div><div style="font-size:12px;font-weight:600;color:#605d5d;margin-top:4px">probijene trase</div></div>
           </div>
           <span class="btn-red" style="display:inline-flex;align-items:center;gap:10px;margin-top:30px;padding:14px 20px;font-size:14px;font-weight:700">Otvorite analizu →</span>
         </div>
         <div style="border-left:2px solid #201e1d;padding:32px;display:flex;flex-direction:column;justify-content:flex-end;gap:14px">
           <div style="font-size:12px;font-weight:700;letter-spacing:.06em;text-transform:uppercase;color:#201e1d">Teren sa satelita, 7. 10. 2026.</div>
-          <div class="vb-sat">
+          <div class="vb-sat" data-rv>
             <img src="/analize/velje-brdo/img/teren-2026-10-07.jpg" width="1100" height="800" loading="lazy" alt="Crno-bijeli satelitski snimak padine Veljeg brda; crvenom linijom označena je probijena trasa puta.">
             <svg viewBox="0 0 1100 800" preserveAspectRatio="xMidYMid slice" aria-hidden="true"><path class="vb-halo" d="M792.5 411C790.8 413.3 787.1 421.4 782.5 425C777.9 428.6 772.1 430.2 765 432.5C757.9 434.8 748.3 436.7 740 439C731.7 441.3 723.3 443.8 715 446.5C706.7 449.2 698.3 452.1 690 455C681.7 457.9 673.3 461.1 665 464C656.7 466.9 647.5 469.8 640 472.5C632.5 475.2 626.7 478.3 620 480C613.3 481.7 606.7 483.2 600 482.5C593.3 481.8 585.8 478.5 580 476C574.2 473.5 570 470.3 565 467.5C560 464.7 554.6 461.1 550 459C545.4 456.9 542.5 454.4 537.5 455C532.5 455.6 526.2 460 520 462.5C513.8 465 506.7 467.5 500 470C493.3 472.5 486.7 474.8 480 477.5C473.3 480.2 466.7 483.2 460 486C453.3 488.8 446.2 491.2 440 494C433.8 496.8 427.5 500.2 422.5 502.5C417.5 504.8 413.3 506.9 410 507.5C406.7 508.1 404 507.2 402.5 506C401 504.8 400.2 502.2 401 500C401.8 497.8 405.2 494.2 407.5 492.5C409.8 490.8 411.2 492.5 415 490C418.8 487.5 425 482.1 430 477.5C435 472.9 440 468.3 445 462.5C450 456.7 455 449.2 460 442.5C465 435.8 470 428.3 475 422.5C480 416.7 485 412.2 490 407.5C495 402.8 499.2 398.2 505 394C510.8 389.8 518.3 386.5 525 382.5C531.7 378.5 539.2 373.8 545 370C550.8 366.2 556.2 362.7 560 360C563.8 357.3 565.7 356.1 567.5 354C569.3 351.9 571.4 350.2 571 347.5C570.6 344.8 567.7 340.1 565 337.5C562.3 334.9 559.2 333.2 555 332C550.8 330.8 545 330.1 540 330C535 329.9 529.6 330.5 525 331.5C520.4 332.5 516.2 333.8 512.5 336C508.8 338.2 505.8 341 502.5 345C499.2 349 495.8 355 492.5 360C489.2 365 486.2 370.4 482.5 375C478.8 379.6 474.2 383.8 470 387.5C465.8 391.2 462.1 394.4 457.5 397.5C452.9 400.6 447.5 403.2 442.5 406C437.5 408.8 431.7 412.3 427.5 414C423.3 415.7 420 416.5 417.5 416C415 415.5 412.9 413.2 412.5 411C412.1 408.8 412.9 405.6 415 402.5C417.1 399.4 421.2 396.2 425 392.5C428.8 388.8 433.8 384.6 437.5 380C441.2 375.4 444.9 370.4 447.5 365C450.1 359.6 452.8 352.9 453 347.5C453.2 342.1 451.2 336.2 449 332.5C446.8 328.8 443.3 326.2 440 325C436.7 323.8 433.2 323.5 429 325C424.8 326.5 419.8 330.7 415 334C410.2 337.3 405.2 341.1 400 345C394.8 348.9 386.7 355.4 384 357.5"></path><path class="vb-route" pathLength="1" d="M792.5 411C790.8 413.3 787.1 421.4 782.5 425C777.9 428.6 772.1 430.2 765 432.5C757.9 434.8 748.3 436.7 740 439C731.7 441.3 723.3 443.8 715 446.5C706.7 449.2 698.3 452.1 690 455C681.7 457.9 673.3 461.1 665 464C656.7 466.9 647.5 469.8 640 472.5C632.5 475.2 626.7 478.3 620 480C613.3 481.7 606.7 483.2 600 482.5C593.3 481.8 585.8 478.5 580 476C574.2 473.5 570 470.3 565 467.5C560 464.7 554.6 461.1 550 459C545.4 456.9 542.5 454.4 537.5 455C532.5 455.6 526.2 460 520 462.5C513.8 465 506.7 467.5 500 470C493.3 472.5 486.7 474.8 480 477.5C473.3 480.2 466.7 483.2 460 486C453.3 488.8 446.2 491.2 440 494C433.8 496.8 427.5 500.2 422.5 502.5C417.5 504.8 413.3 506.9 410 507.5C406.7 508.1 404 507.2 402.5 506C401 504.8 400.2 502.2 401 500C401.8 497.8 405.2 494.2 407.5 492.5C409.8 490.8 411.2 492.5 415 490C418.8 487.5 425 482.1 430 477.5C435 472.9 440 468.3 445 462.5C450 456.7 455 449.2 460 442.5C465 435.8 470 428.3 475 422.5C480 416.7 485 412.2 490 407.5C495 402.8 499.2 398.2 505 394C510.8 389.8 518.3 386.5 525 382.5C531.7 378.5 539.2 373.8 545 370C550.8 366.2 556.2 362.7 560 360C563.8 357.3 565.7 356.1 567.5 354C569.3 351.9 571.4 350.2 571 347.5C570.6 344.8 567.7 340.1 565 337.5C562.3 334.9 559.2 333.2 555 332C550.8 330.8 545 330.1 540 330C535 329.9 529.6 330.5 525 331.5C520.4 332.5 516.2 333.8 512.5 336C508.8 338.2 505.8 341 502.5 345C499.2 349 495.8 355 492.5 360C489.2 365 486.2 370.4 482.5 375C478.8 379.6 474.2 383.8 470 387.5C465.8 391.2 462.1 394.4 457.5 397.5C452.9 400.6 447.5 403.2 442.5 406C437.5 408.8 431.7 412.3 427.5 414C423.3 415.7 420 416.5 417.5 416C415 415.5 412.9 413.2 412.5 411C412.1 408.8 412.9 405.6 415 402.5C417.1 399.4 421.2 396.2 425 392.5C428.8 388.8 433.8 384.6 437.5 380C441.2 375.4 444.9 370.4 447.5 365C450.1 359.6 452.8 352.9 453 347.5C453.2 342.1 451.2 336.2 449 332.5C446.8 328.8 443.3 326.2 440 325C436.7 323.8 433.2 323.5 429 325C424.8 326.5 419.8 330.7 415 334C410.2 337.3 405.2 341.1 400 345C394.8 348.9 386.7 355.4 384 357.5"></path></svg>
             <span class="vb-tag">Copernicus Sentinel-2</span>
           </div>
-          <p style="margin:0;font-size:13.5px;line-height:1.45;color:#605d5d">Crveno je probijena trasa puta, duga oko 5,2 km. Gradilišta stanova na snimku nema.</p>
+          <p style="margin:0;font-size:13.5px;line-height:1.45;color:#605d5d">Crveno je probijena trasa puta, duga oko 5,2 km. Gradilišta stanova na snimku nema. Sadrži modifikovane podatke Copernicus Sentinel (2026).</p>
         </div>
       </a>
 
@@ -311,10 +311,10 @@
       <div data-g="poster" style="display:grid;grid-template-columns:repeat(3,1fr);gap:2px;margin-top:64px;background:rgba(255,255,255,.45)">
         <div style="background:#d40511;padding:28px 28px 0 0">
           <div style="font-size:clamp(52px,7vw,104px);font-weight:800;letter-spacing:-.04em;line-height:1">0,9%</div>
-          <p style="margin:14px 0 0;max-width:26ch;font-size:15px;line-height:1.5;color:#ffd9db">obećanih stanova je ugovoreno: 185 od 20.000, sa rokom 21. 8. 2029.</p>
+          <p style="margin:14px 0 0;max-width:26ch;font-size:15px;line-height:1.5;color:#ffd9db">obećanih stanova je ugovoreno: 185 od 20.000, sa rokom 21.&nbsp;8.&nbsp;2029.</p>
         </div>
         <div style="background:#d40511;padding:28px 28px 0">
-          <div style="font-size:clamp(52px,7vw,104px);font-weight:800;letter-spacing:-.04em;line-height:1">2.808 €</div>
+          <div style="font-size:clamp(52px,7vw,104px);font-weight:800;letter-spacing:-.04em;line-height:1">2.808&nbsp;€</div>
           <p style="margin:14px 0 0;max-width:26ch;font-size:15px;line-height:1.5;color:#ffd9db">po kvadratu, po računici iz ugovora (Investitor). Obećano je 1.000 €; ministarstvo računicu osporava.</p>
         </div>
         <div style="background:#d40511;padding:28px 0 0 28px">
